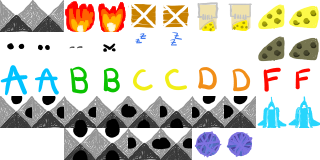
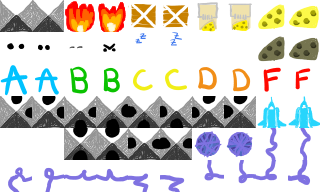
🧶 Added yarn trails! Lord forgive me for this commit.

diff --git a/src/objects.js b/src/objects.js
@@ -91,8 +91,185 @@ class Push extends Entity{
 
 }
 
+
+class Trail extends Push{
+  constructor(_x, _y, _s){
+    super(_x, _y, 'TRAIL');
+    this.sprite = _s;
+  }
+
+  draw(){
+    context.drawImage(tiles[0],
+      this.sprite[0]*TILE_SIZE + ((drawBop)?32:0), this.sprite[1]*TILE_SIZE,
+      TILE_SIZE, TILE_SIZE,
+      this.x * TILE_SIZE, this.y * TILE_SIZE,
+      TILE_SIZE, TILE_SIZE
+    );
+  }
+}
+
 class Yarn extends Push{
-  constructor(_x, _y){ super(_x, _y, 'YARN'); }
+  constructor(_x, _y, _t = 'YARN'){
+    super(_x, _y, _t);
+
+    this.dir = dir.DOWN;
+    this.last_dir = dir.DOWN;
+    this.moves = 3;
+  }
+
+  move(_dx, _dy){
+    var _r = super.move(_dx, _dy);
+
+    if(_r.moved){
+      this.last_dir = this.dir;
+      if     (_dx > 0){ this.dir = dir.RIGHT; }
+      else if(_dy > 0){ this.dir = dir.DOWN; }
+      else if(_dx < 0){ this.dir = dir.LEFT; }
+      else            { this.dir = dir.UP; }
+
+      var _pickup = false;
+
+      for(var _i = 0; _i < entities.length; _i++){
+        var _e = entities[_i];
+        if(_e.x == this.x && _e.y == this.y && _e.type == types.TRAIL){
+          this.moves += 1;
+          entities.splice(_i, 1);
+          _pickup = true;
+          break;
+        }
+      }
+
+      if(!_pickup){
+        var _s = sprites.TRAIL_V;
+        var _x = this.x;
+        var _y = this.y;
+        switch(this.dir){
+          case dir.DOWN:
+            switch(this.last_dir){
+              case dir.DOWN:
+                _s = sprites.TRAIL_V;
+                break;
+              case dir.UP:
+                _s = sprites.TRAIL_V;
+                break;
+              case dir.LEFT:
+                _s = sprites.TRAIL_UR;
+                break;
+              case dir.RIGHT:
+                _s = sprites.TRAIL_UL;
+                break;
+            }
+            _y -= 1;
+            break;
+          case dir.UP:
+            switch(this.last_dir){
+              case dir.DOWN:
+                _s = sprites.TRAIL_V;
+                break;
+              case dir.UP:
+                _s = sprites.TRAIL_V;
+                break;
+              case dir.LEFT:
+                _s = sprites.TRAIL_DR;
+                break;
+              case dir.RIGHT:
+                _s = sprites.TRAIL_DL;
+                break;
+            }
+            _y += 1;
+            break;
+          case dir.LEFT:
+            switch(this.last_dir){
+              case dir.DOWN:
+                _s = sprites.TRAIL_DL;
+                break;
+              case dir.UP:
+                _s = sprites.TRAIL_UL;
+                break;
+              case dir.LEFT:
+                _s = sprites.TRAIL_H;
+                break;
+              case dir.RIGHT:
+                _s = sprites.TRAIL_H;
+                break;
+            }
+            _x += 1;
+            break;
+          case dir.RIGHT:
+            switch(this.last_dir){
+              case dir.DOWN:
+                _s = sprites.TRAIL_DR;
+                break;
+              case dir.UP:
+                _s = sprites.TRAIL_UR;
+                break;
+              case dir.LEFT:
+                _s = sprites.TRAIL_H;
+                break;
+              case dir.RIGHT:
+                _s = sprites.TRAIL_H;
+                break;
+            }
+            _x -= 1;
+            break;
+        }
+
+        entities.push(new Trail(_x, _y, _s));
+        this.moves -= 1;
+
+      }
+    }
+
+    if(this.moves < 0){ _r.delete = true; }
+    return _r;
+  }
+
+  draw(){
+    var _ts;
+    var _tx = this.x * TILE_SIZE;
+    var _ty = this.y * TILE_SIZE;
+    var _tw = TILE_SIZE;
+    var _th = TILE_SIZE;
+
+    if(this.dir >= dir.LEFT){
+      _ts = sprites.TRAIL_H;
+      _th = TILE_SIZE/2;
+    }
+    else{
+      _ts = sprites.TRAIL_V;
+      _tw = TILE_SIZE/2;
+    }
+
+    var _tsx = _ts[0];
+    var _tsy = _ts[1];
+
+    if(this.dir == dir.LEFT){
+      _tsx += 0.5;
+      _tx += TILE_SIZE/2;
+    }
+    else if(this.dir == dir.UP){
+      _tsy += 0.5;
+      _ty += TILE_SIZE/2;
+    }
+
+    context.drawImage(tiles[0],
+      _tsx*TILE_SIZE + ((this.bop)?TILE_SIZE:0), _tsy*TILE_SIZE,
+      _th, _tw,
+      _tx, _ty,
+      _th, _tw
+    );
+
+    super.draw();
+  }
+
+  /*
+   * The yarn ball can only move 3 times and lay down 3 paths before it
+   * disappears. If a yarn ball is pushed onto a path, that path is destroyed
+   * and the yarn ball gains another move. If the yarn ball is pushed into a
+   * fire, the fire will spread backwards down the path destroying all the
+   * remaining connected paths.
+   */
+
 }
 
 class Button{

diff --git a/src/constants.js b/src/constants.js
@@ -37,7 +37,14 @@ const sprites = {
   HOLE_H: [4, 4],
   GOAL: [8, 3],
   CHEESE: [8, 0],
-  YARN: [6, 4]
+  YARN: [6, 4],
+  TRAIL: [8, 4],
+  TRAIL_UR: [0, 5],
+  TRAIL_H: [2, 5],
+  TRAIL_UL: [4, 5],
+  TRAIL_DR: [6, 5],
+  TRAIL_DL: [8, 5],
+  TRAIL_V: [8, 4]
 }
 
 const pictures = {
@@ -62,7 +69,8 @@ const type_list = [
     "HOLE_H",
     "GOAL",
     "CHEESE",
-    "YARN"
+    "YARN",
+    "TRAIL"
 ];
 
 const types = {
@@ -81,10 +89,11 @@ const types = {
   CHEESE: 12,
   HOLE_V: 13,
   HOLE_H: 14,
-  YARN: 15
+  YARN: 15,
+  TRAIL: 16
 }
 
-const tmp_level = '{"title":"","par":2,"data":[3,3,3,3,3,3,3,3,3,3,3,3,3,3,3,3,3,0,0,0,0,0,0,0,3,0,0,0,3,0,0,3,3,0,0,1,0,0,0,4,14,0,0,11,14,0,12,3,3,0,0,0,0,0,0,5,3,0,0,0,3,0,0,3,3,0,0,0,0,0,0,0,3,3,3,3,3,5,5,3,3,0,0,0,0,0,0,0,3,0,0,0,0,0,2,3,3,3,3,3,12,3,3,3,8,0,0,0,0,0,0,3,3,0,0,0,0,0,0,0,13,0,0,0,0,0,0,3,3,0,0,0,6,0,0,0,10,0,0,0,0,0,0,3,3,0,0,6,12,6,0,0,3,0,0,0,0,0,0,3,3,0,0,0,6,0,0,0,3,0,0,0,0,0,0,3,3,3,3,3,3,3,3,3,3,3,3,3,3,3,3,3]}';
+const tmp_level = '{"title":"","par":0,"data":[3,3,3,3,3,3,3,3,3,3,3,3,3,3,3,3,3,0,0,0,0,0,0,0,3,0,0,0,3,0,0,3,3,0,0,1,0,0,0,0,14,0,0,11,14,0,12,3,3,0,0,0,0,15,0,0,3,0,0,0,3,0,0,3,3,0,0,4,0,0,0,0,3,3,3,3,3,3,3,3,3,0,0,0,0,0,0,0,3,0,0,0,0,0,2,3,3,3,3,3,12,3,3,3,8,0,0,0,0,0,0,3,3,0,0,0,0,0,0,0,13,0,0,0,0,0,0,3,3,0,0,0,6,0,0,0,10,0,0,0,0,0,0,3,3,3,0,6,12,6,0,0,3,0,0,0,0,0,0,3,3,0,0,0,6,0,0,0,3,0,0,0,0,0,0,3,3,3,3,3,3,3,3,3,3,3,3,3,3,3,3,3]}';
 
 const levels = [
 

diff --git a/src/player.js b/src/player.js
@@ -153,6 +153,9 @@ function moveCatNRat(_dir){
         }
         if(e.x == tRat.x && e.y == tRat.y){ halt[1] = true; }
         break;
+      case types.TRAIL:
+        if(e.x == tRat.x && e.y == tRat.y){ halt[1] = true; }
+        break;
       // Fail the level if going to move into a kill block
       case types.KILL:
         if(e.x == tCat.x && e.y == tCat.y){ kill[0] = true; }

diff --git a/src/level.js b/src/level.js
@@ -73,6 +73,7 @@ function loadLevel(_dat = undefined){
         case types.CHEESE: t = 'CHEESE'; break;
         case types.GOAL: t = 'GOAL'; break;
         case types.YARN: t = 'YARN'; break;
+        case types.TRAIL: t = 'TRAIL'; break;
         default: t = 'EMPTY'; break;
       }
       if(t != 'EMPTY'){ makeEntity(posIter[0], posIter[1], t); }
